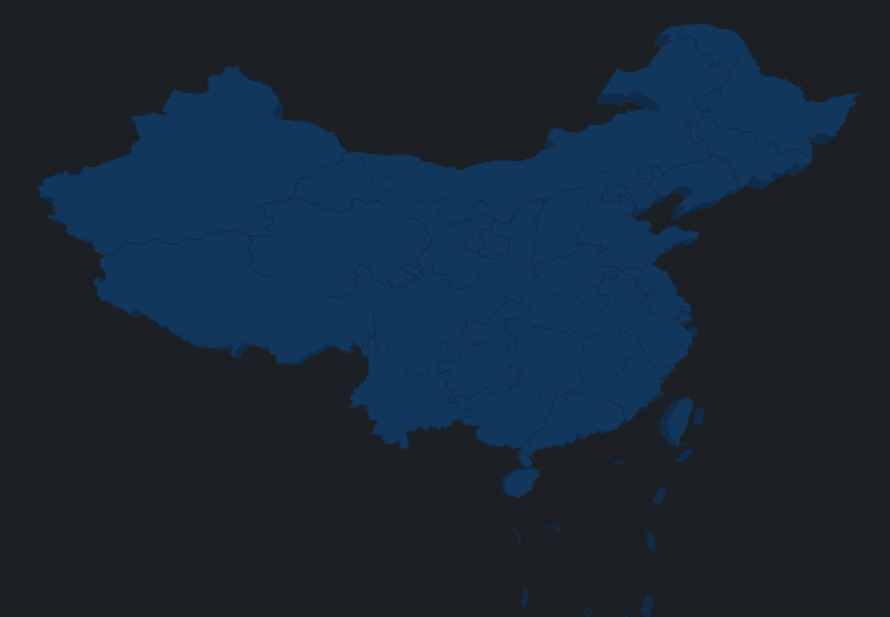
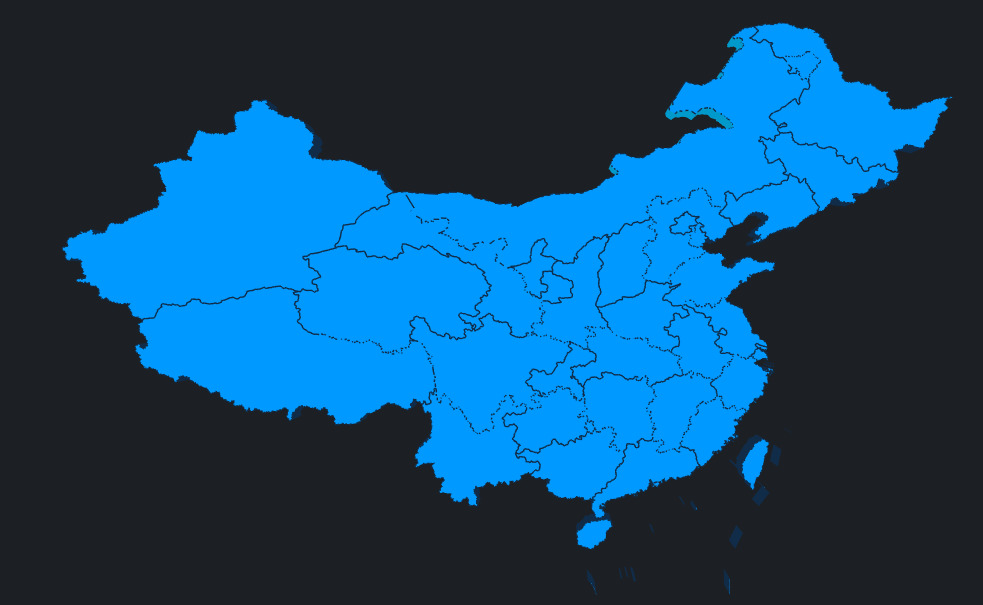
更新样式和截图

diff --git a/webglCodes/ThreeJS-build/app.js b/webglCodes/ThreeJS-build/app.js
@@ -30,8 +30,8 @@ ctx.mouseClickHandle = insect => {
     if (group) {
       console.log(group.userData.originData.name)
 
-      const material = new MeshBasicMaterial({ color: '#0099FF' })
-      const material2 = new MeshBasicMaterial({ color: '#0099CC' })
+      const material = new THREE.MeshBasicMaterial({ color: 0xffff00 })
+      const material2 = new THREE.MeshBasicMaterial({ color: 0xff8800 })
       extrude.highlight(group, [material, material2])
     }
   }

diff --git a/src/utils/extrudeGeoJson.js b/src/utils/extrudeGeoJson.js
@@ -20,7 +20,7 @@ export default class ExtrudeGeoJson {
     this.url = url
     this.group = new Group()
 
-    const materialFront = new MeshBasicMaterial({ color: '#12375D' })
+    const materialFront = new MeshBasicMaterial({ color: '#0099FF' })
     const materialSide = new MeshBasicMaterial({ color: '#112C49' })
 
     const lineMaterial1 = new LineBasicMaterial({ color: '#112C49', linewidth: 1 })
